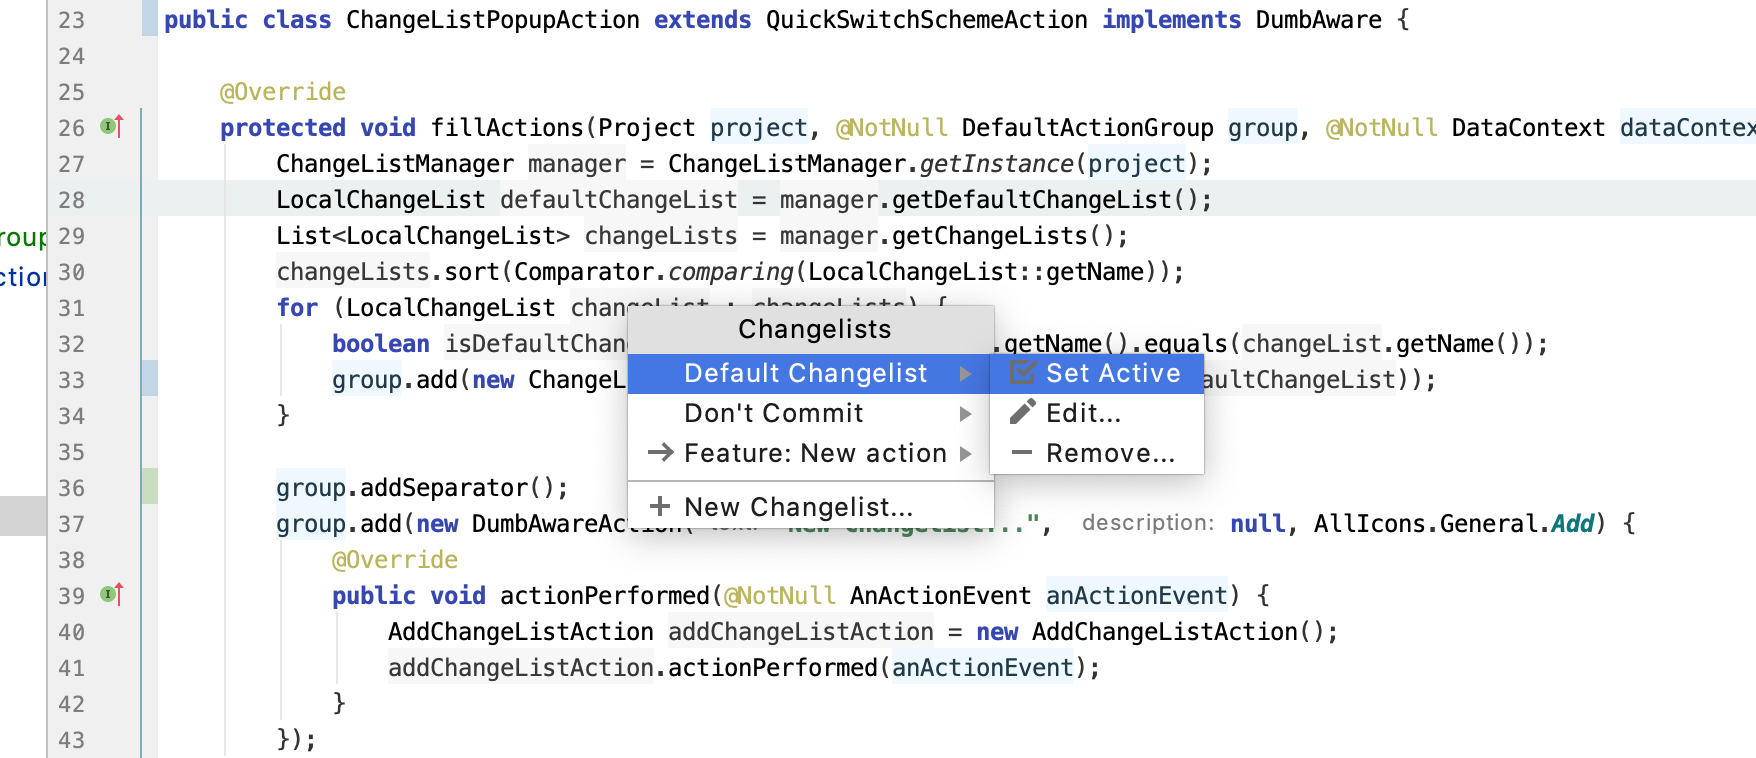
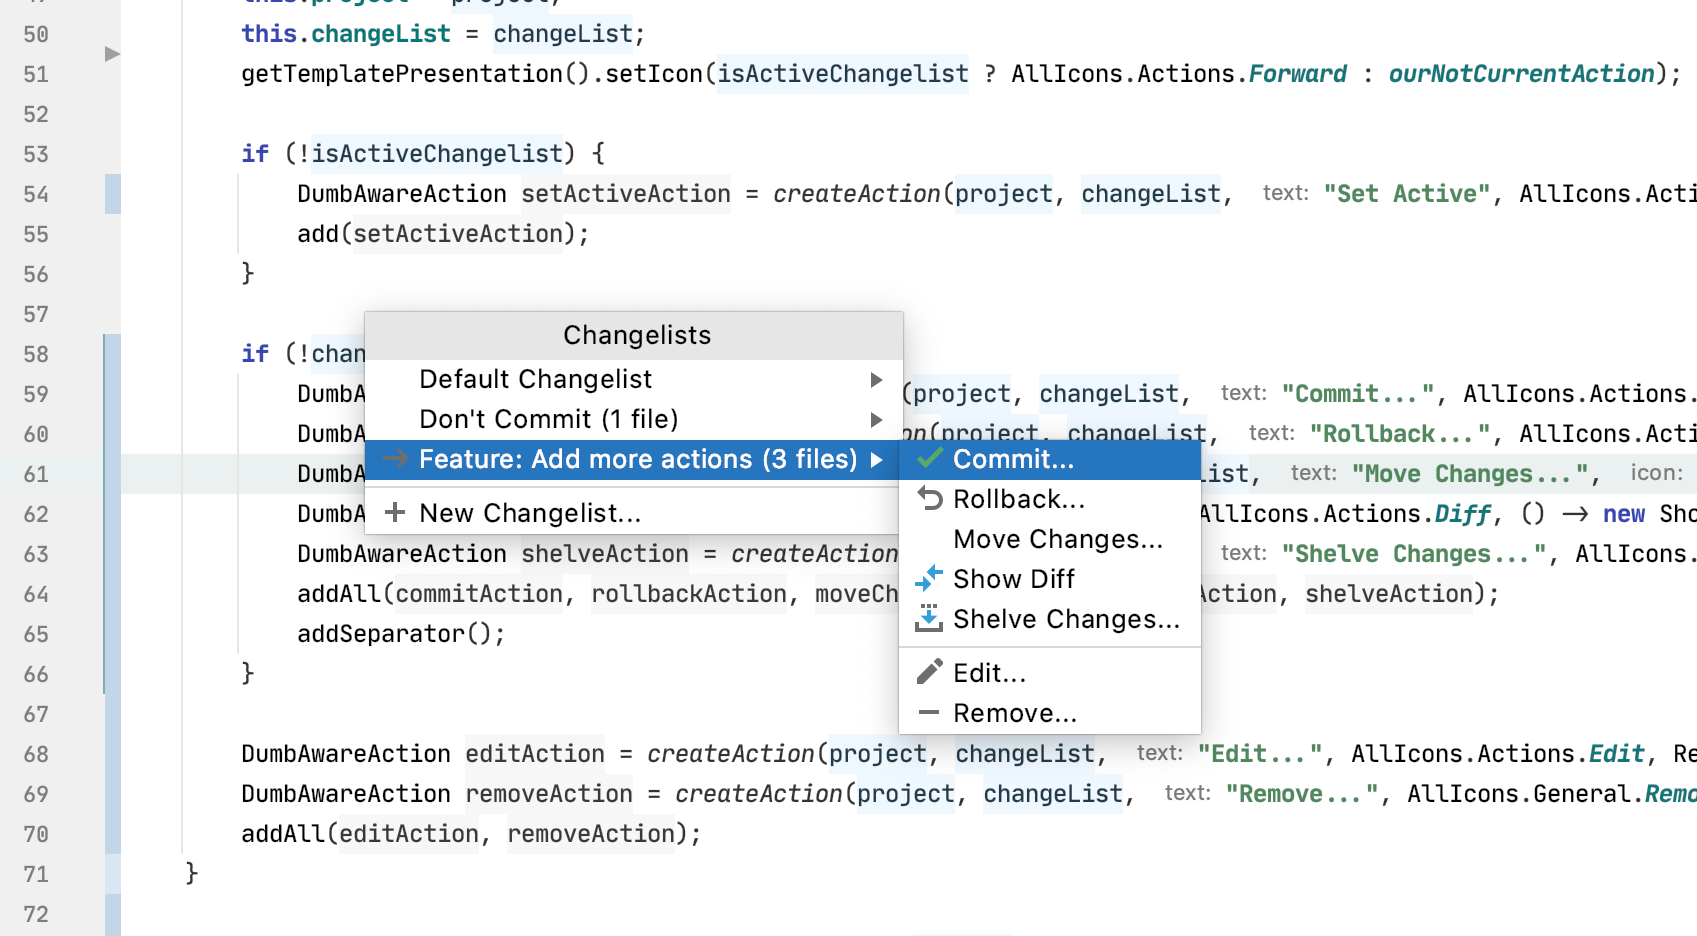
Added number of changes to changelist names. Added more VCS actions

diff --git a/src/com/kablemonck/idea/plugins/changelistpopup/ChangeListActionGroup.java b/src/com/kablemonck/idea/plugins/changelistpopup/ChangeListActionGroup.java
@@ -2,6 +2,7 @@ package com.kablemonck.idea.plugins.changelistpopup;
 
 import com.intellij.icons.AllIcons;
 import com.intellij.openapi.actionSystem.ActionPlaces;
+import com.intellij.openapi.actionSystem.AnAction;
 import com.intellij.openapi.actionSystem.AnActionEvent;
 import com.intellij.openapi.actionSystem.CommonDataKeys;
 import com.intellij.openapi.actionSystem.DataContext;
@@ -10,15 +11,23 @@ import com.intellij.openapi.project.DumbAwareAction;
 import com.intellij.openapi.project.Project;
 import com.intellij.openapi.util.IconLoader;
 import com.intellij.openapi.vcs.VcsDataKeys;
+import com.intellij.openapi.vcs.actions.CommonCheckinProjectAction;
+import com.intellij.openapi.vcs.changes.Change;
 import com.intellij.openapi.vcs.changes.ChangeListManager;
 import com.intellij.openapi.vcs.changes.LocalChangeList;
+import com.intellij.openapi.vcs.changes.actions.MoveChangesToAnotherListAction;
 import com.intellij.openapi.vcs.changes.actions.RemoveChangeListAction;
-import com.intellij.openapi.vcs.changes.ui.EditChangelistDialog;
+import com.intellij.openapi.vcs.changes.actions.RenameChangeListAction;
+import com.intellij.openapi.vcs.changes.actions.RollbackAction;
+import com.intellij.openapi.vcs.changes.actions.SetDefaultChangeListAction;
+import com.intellij.openapi.vcs.changes.actions.diff.ShowDiffAction;
+import com.intellij.openapi.vcs.changes.shelf.ShelveChangesAction;
 import com.intellij.util.ui.EmptyIcon;
 import com.kablemonck.idea.plugins.changelistpopup.util.TextUtil;
 import org.jetbrains.annotations.NotNull;
 
 import javax.swing.*;
+import java.util.function.Supplier;
 
 /**
  * @author Kable Monck
@@ -27,7 +36,6 @@ public class ChangeListActionGroup extends DefaultActionGroup {
 
     private final Project project;
     private final LocalChangeList changeList;
-    private final ChangeListManager changeListManager;
 
     protected static final Icon ourNotCurrentAction = new IconLoader.LazyIcon() {
         @NotNull
@@ -37,46 +45,75 @@ public class ChangeListActionGroup extends DefaultActionGroup {
     };
 
     public ChangeListActionGroup(Project project, LocalChangeList changeList, boolean isActiveChangelist) {
-        super(TextUtil.wrap(changeList.getName(), 50, TextUtil.TextWrapStrategy.MIDDLE), true);
+        super(getActionName(changeList), true);
         this.project = project;
         this.changeList = changeList;
-        changeListManager = ChangeListManager.getInstance(project);
         getTemplatePresentation().setIcon(isActiveChangelist ? AllIcons.Actions.Forward : ourNotCurrentAction);
 
         if (!isActiveChangelist) {
-            DumbAwareAction setActiveAction = new DumbAwareAction("Set Active", null, AllIcons.Actions.Selectall) {
-                @Override
-                public void actionPerformed(@NotNull AnActionEvent anActionEvent) {
-                    changeListManager.setDefaultChangeList(changeList);
-                }
-            };
+            DumbAwareAction setActiveAction = createAction(project, changeList, "Set Active", AllIcons.Actions.Selectall, SetDefaultChangeListAction::new);
             add(setActiveAction);
         }
 
-        DumbAwareAction editAction = new DumbAwareAction("Edit...", null, AllIcons.Actions.Edit) {
-            @Override
-            public void actionPerformed(@NotNull AnActionEvent anActionEvent) {
-                new EditChangelistDialog(project, changeList).show();
-            }
-        };
-        DumbAwareAction removeAction = new DumbAwareAction("Remove...", null, AllIcons.General.Remove) {
-            @Override
-            public void actionPerformed(@NotNull AnActionEvent anActionEvent) {
-                DataContext dataContext = dataId -> {
-                    if (CommonDataKeys.PROJECT.is(dataId)) {
-                        return project;
-                    } else if (VcsDataKeys.CHANGE_LISTS.is(dataId)) {
-                        return new LocalChangeList[]{changeList};
-                    }
-                    return null;
-                };
-                RemoveChangeListAction action = new RemoveChangeListAction();
+        if (!changeList.getChanges().isEmpty()) {
+            DumbAwareAction commitAction = createAction(project, changeList, "Commit...", AllIcons.Actions.Commit, CommonCheckinProjectAction::new);
+            DumbAwareAction rollbackAction = createAction(project, changeList, "Rollback...", AllIcons.Actions.Rollback, RollbackAction::new);
+            DumbAwareAction moveChangesAction = createAction(project, changeList, "Move Changes...", null, MoveChangesToAnotherListAction::new);
+            DumbAwareAction showDiffAction = createAction("Show Diff", AllIcons.Actions.Diff, () -> new ShowDiffAction().actionPerformed(actionEventFromChangeList(project, changeList)));
+            DumbAwareAction shelveAction = createAction(project, changeList, "Shelve Changes...", AllIcons.Vcs.Shelve, ShelveChangesAction::new);
+            addAll(commitAction, rollbackAction, moveChangesAction, showDiffAction, shelveAction);
+            addSeparator();
+        }
 
-                action.actionPerformed(AnActionEvent.createFromDataContext(ActionPlaces.POPUP, null, dataContext));
-            }
-        };
-
+        DumbAwareAction editAction = createAction(project, changeList, "Edit...", AllIcons.Actions.Edit, RenameChangeListAction::new);
+        DumbAwareAction removeAction = createAction(project, changeList, "Remove...", AllIcons.General.Remove, RemoveChangeListAction::new);
         addAll(editAction, removeAction);
+    }
+
+    private static DumbAwareAction createAction(Project project,
+                                                LocalChangeList changeList,
+                                                String text,
+                                                Icon icon,
+                                                Supplier<AnAction> underlyingActionSupplier) {
+        return createAction(text, icon, () -> {
+            AnAction underlyingAction = underlyingActionSupplier.get();
+            underlyingAction.actionPerformed(actionEventFromChangeList(project, changeList));
+        });
+
+    }
+
+    private static DumbAwareAction createAction(String text, Icon icon, Runnable perform) {
+        return new DumbAwareAction(text, null, icon) {
+            @Override
+            public void actionPerformed(@NotNull AnActionEvent anActionEvent) {
+                perform.run();
+            }
+        };
+    }
+
+    private static AnActionEvent actionEventFromChangeList(Project project, LocalChangeList changeList) {
+        DataContext dataContext = dataId -> {
+            if (CommonDataKeys.PROJECT.is(dataId)) {
+                return project;
+            } else if (VcsDataKeys.CHANGE_LISTS.is(dataId)) {
+                return new LocalChangeList[]{changeList};
+            } else if (VcsDataKeys.CHANGES.is(dataId)) {
+                return changeList.getChanges().toArray(new Change[]{});
+            }
+            return null;
+        };
+        return AnActionEvent.createFromDataContext(ActionPlaces.POPUP, null, dataContext);
+    }
+
+    private static String getActionName(LocalChangeList changeList) {
+        String fullName = changeList.getName();
+        int files = changeList.getChanges().size();
+        if (files == 1) {
+            fullName += " (1 file)";
+        } else if (files > 1) {
+            fullName += String.format(" (%d files)", files);
+        }
+        return TextUtil.wrap(fullName, 50, TextUtil.TextWrapStrategy.MIDDLE);
     }
 
     @Override

diff --git a/src/com/kablemonck/idea/plugins/changelistpopup/status/ChangeListStatusBarWidgetFactory.java b/src/com/kablemonck/idea/plugins/changelistpopup/status/ChangeListStatusBarWidgetFactory.java
@@ -1,0 +1,49 @@
+package com.kablemonck.idea.plugins.changelistpopup.status;
+
+import com.intellij.openapi.project.Project;
+import com.intellij.openapi.util.Disposer;
+import com.intellij.openapi.wm.StatusBar;
+import com.intellij.openapi.wm.StatusBarWidget;
+import com.intellij.openapi.wm.StatusBarWidgetFactory;
+import org.jetbrains.annotations.Nls;
+import org.jetbrains.annotations.NotNull;
+
+/**
+ * @author Kable Monck (kable.monck@fincleartech.com.au)
+ */
+public class ChangeListStatusBarWidgetFactory implements StatusBarWidgetFactory {
+
+    @NotNull
+    @Override
+    public String getId() {
+        return ChangeListStatusBarWidget.class.getName();
+    }
+
+    @Nls
+    @NotNull
+    @Override
+    public String getDisplayName() {
+        return "Changelists";
+    }
+
+    @Override
+    public boolean isAvailable(@NotNull Project project) {
+        return true;
+    }
+
+    @NotNull
+    @Override
+    public StatusBarWidget createWidget(@NotNull Project project) {
+        return new ChangeListStatusBarWidget(project);
+    }
+
+    @Override
+    public void disposeWidget(@NotNull StatusBarWidget statusBarWidget) {
+        Disposer.dispose(statusBarWidget);
+    }
+
+    @Override
+    public boolean canBeEnabledOn(@NotNull StatusBar statusBar) {
+        return true;
+    }
+}

diff --git a/README.md b/README.md
@@ -7,15 +7,21 @@ IntelliJ Platform plugin to quickly switch, edit and remove version control chan
 Activate via the default keyboard shortcut `control + alt + F3` (Mac: `command + option + F3`)
 
 ## Changes
+### 1.1.0
+*11 Sep 2020*
+ * Added a status bar widget showing the active changelist. Clicking on it will open the popup
+ * Add number of changed files to changelist names
+ * Added extra VCS actions: Commit, Rollback, Move Changes, Show Diff, Shelve Changes
+ 
 ### 1.0.1
+*31 Jan 2020*
  * New Changelist option
  * Edit and remove changelists
  
 ### 1.0.0
+*30 Jan 2020*
  * Main change list switcher action
     
 ## Roadmap & Ideas
  * Settings UI
- * Cut down long changelist names
- * Add num files to changelist name 
- * More options: commit, revert, move changes, show diff
+ * Handle delete key press on menu (and enter?)
